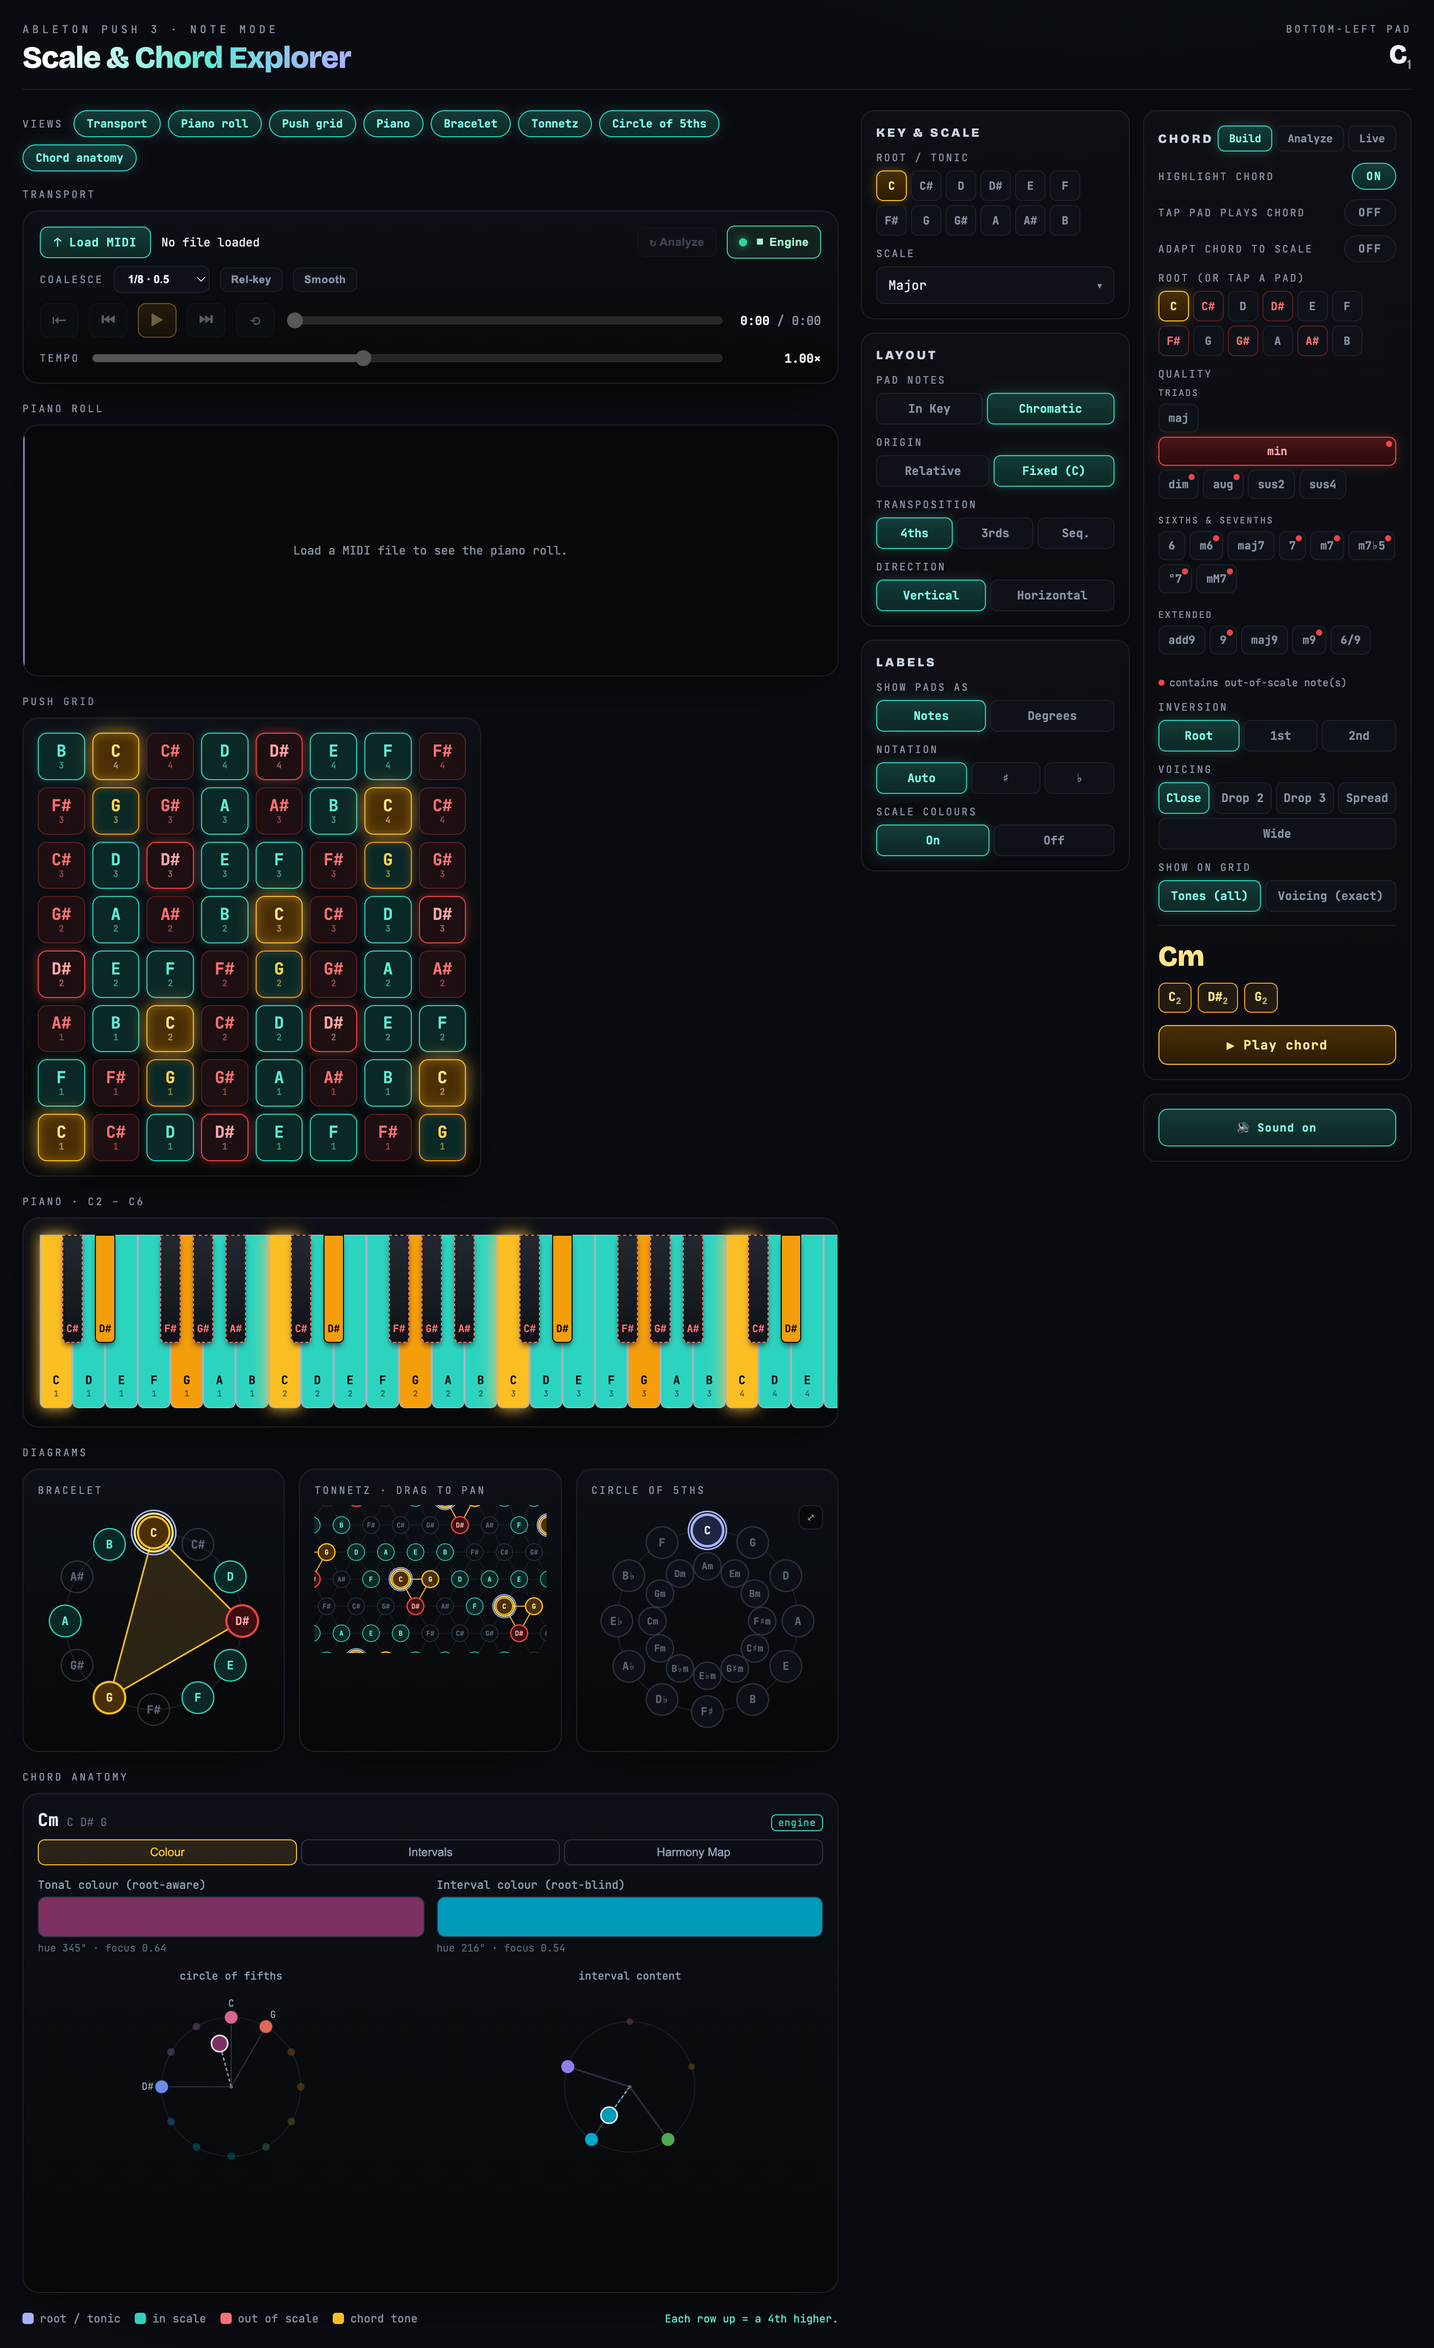
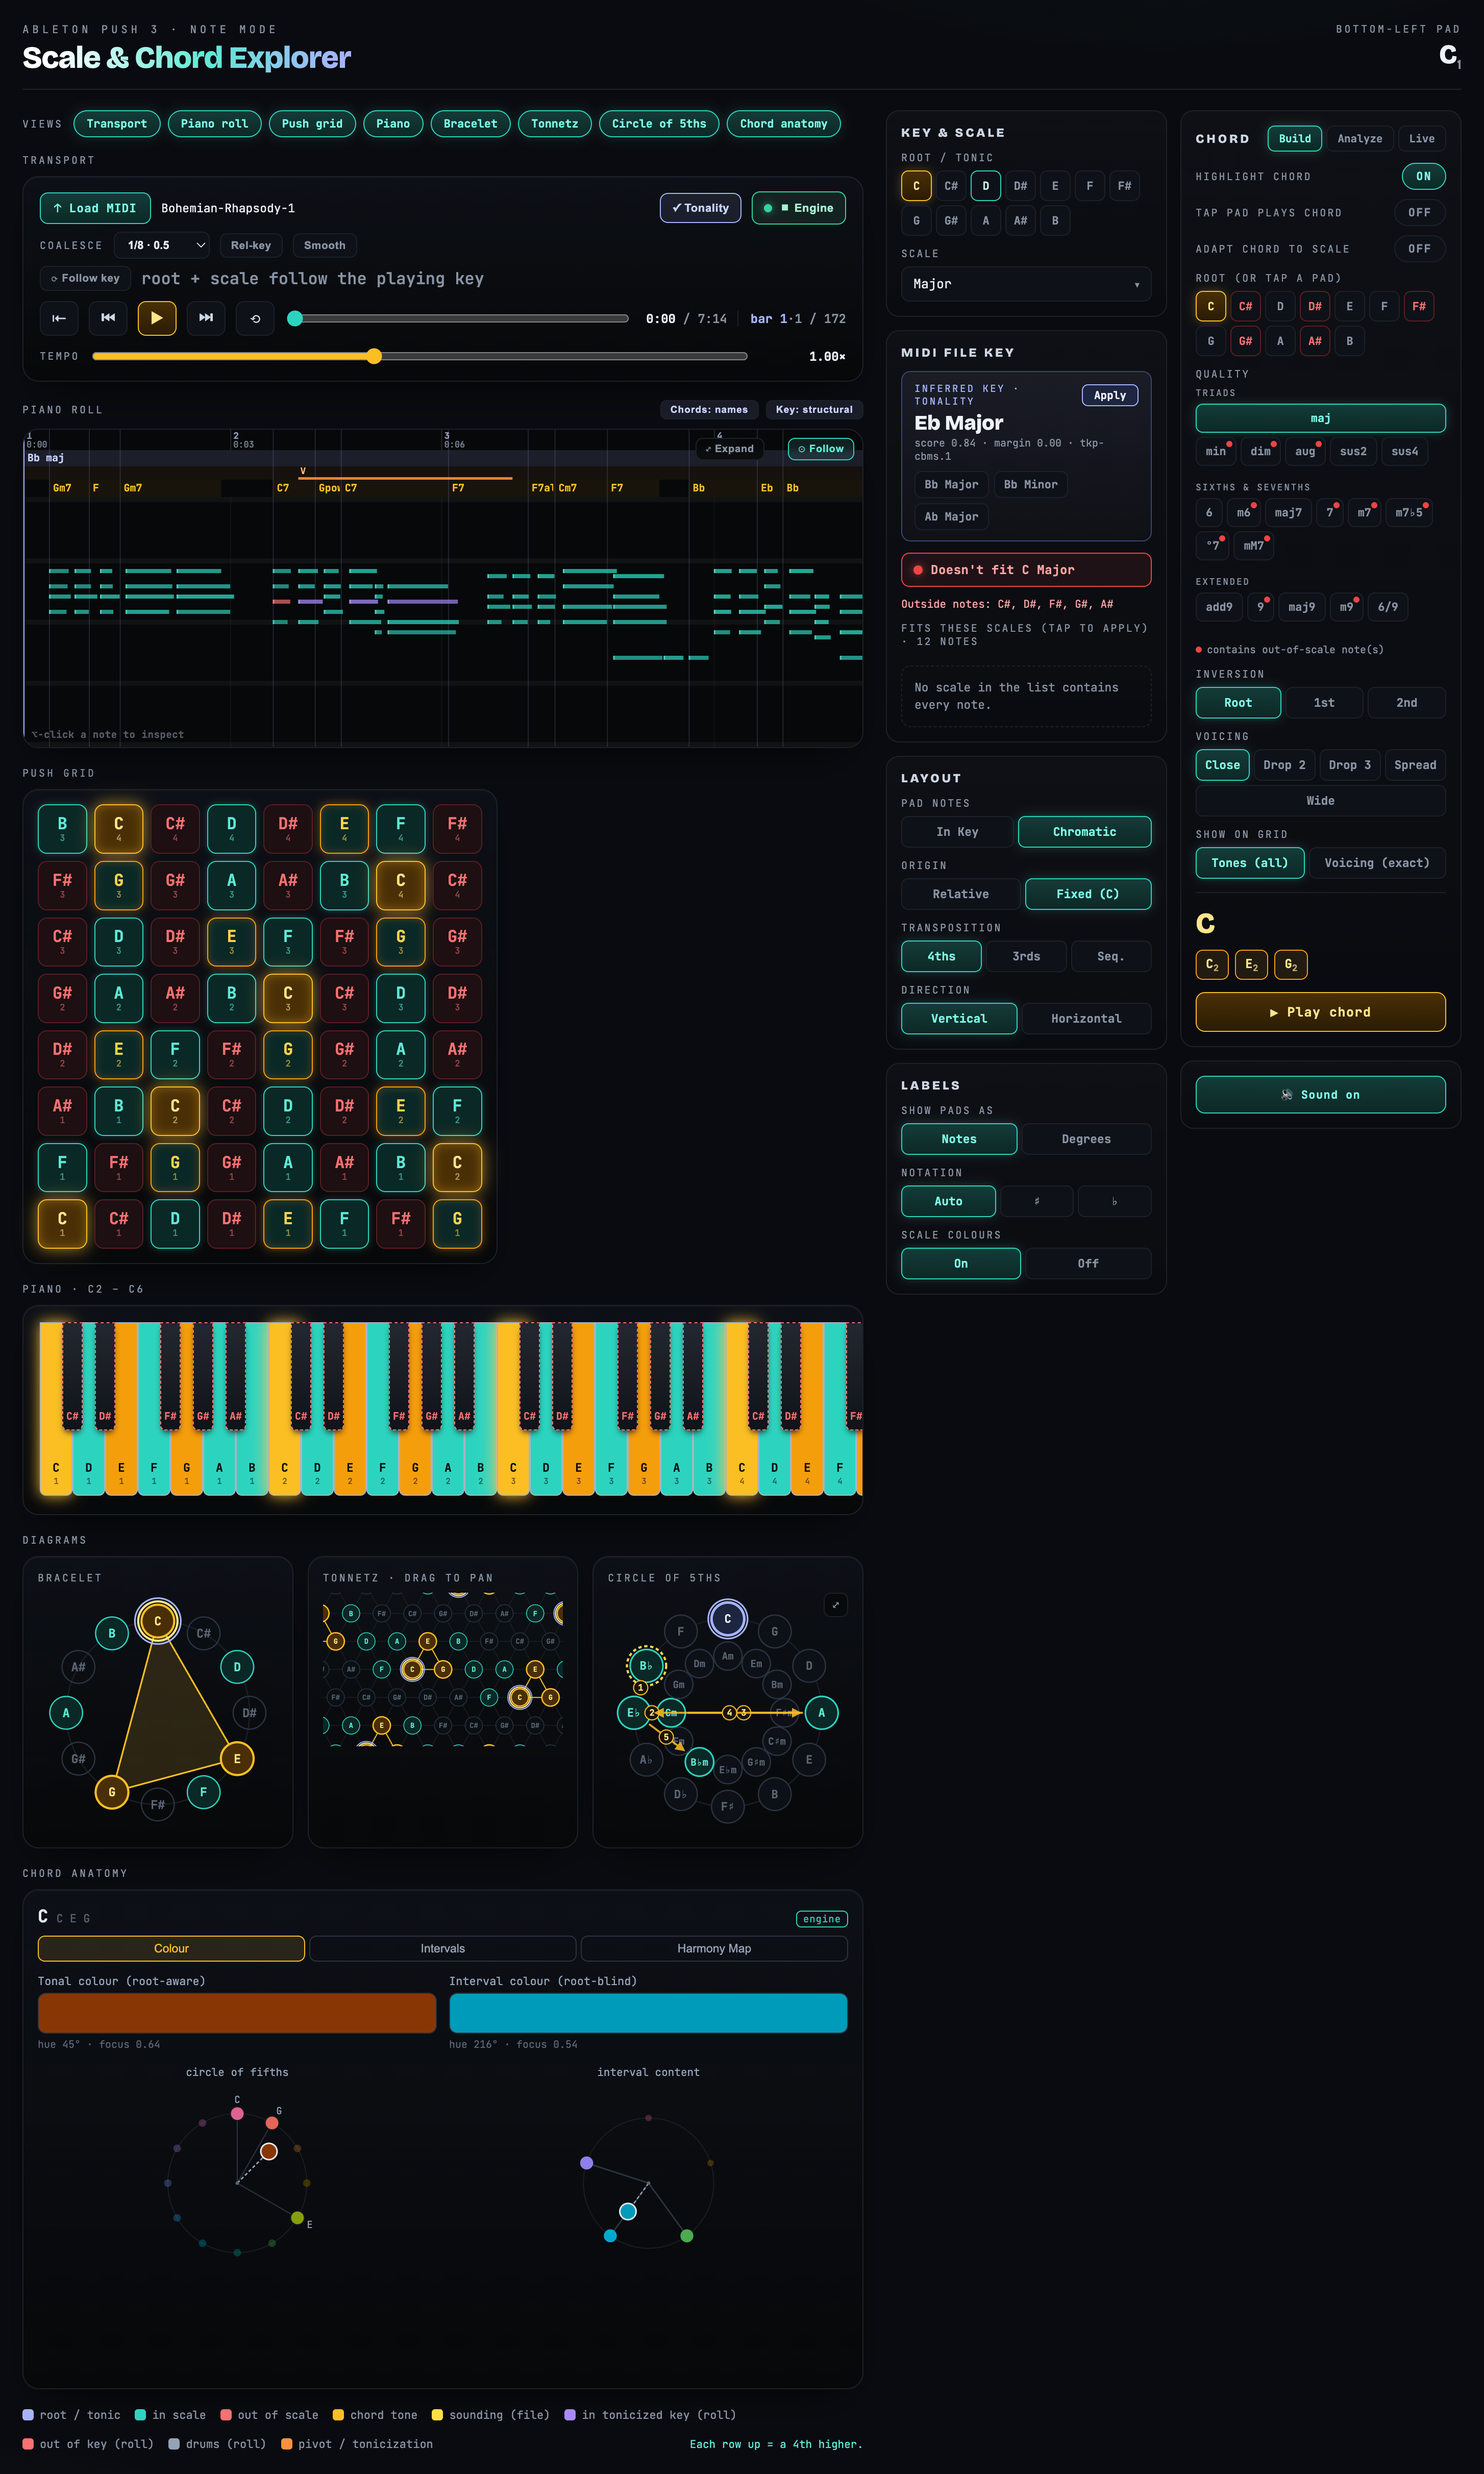
fix: piano marks out-of-scale chord tones red (not amber)
The piano's keyAccent returned plain amber for any chord tone / voicing / selected
note, with no out-of-scale check — so an out-of-key chord tone (e.g. Eb/Ab in C major)
showed amber, indistinguishable from in-key chord tones, while the grid/bracelet/tonnetz
correctly showed it red. Now keyAccent reds out-of-scale isTone/isVoice/isCRoot/isSel
accents (filled red — distinct from the red-dashed plain out-of-scale keys), matching
the grid. Played (isLit) notes stay yellow regardless, as on the grid.

Verified in-browser: Cm in C major now shows D# (Eb) red-filled, the other black keys
red-dashed, C/G amber — consistent with the grid and bracelet. typecheck + build pass.

diff --git a/src/App.tsx b/src/App.tsx
@@ -677,16 +677,20 @@ export default function App() {
   };
 
   const keyAccent = (p: Cell): KeyAccent | null => {
+    // An out-of-scale chord tone must still read as out-of-key (red), not be hidden
+    // behind the amber chord-tone colour — this is what the grid does, and the piano
+    // didn't, so e.g. an E♭/A♭ chord tone in C major showed amber instead of red.
+    const out = showScaleColors && !p.inScale;
     if (p.isLit) return { c: "#fde047", strong: true };
-    if (p.isSel) return { c: "#fbbf24", strong: true };
-    if (p.isSelPc) return { c: "#d97706", dashed: true };
-    if (p.isVoice || p.isCRoot) return { c: "#fbbf24", strong: true, badge: p.voiceNum };
-    if (p.isTone) return { c: "#f59e0b" };
+    if (p.isSel) return { c: out ? "#ef4444" : "#fbbf24", strong: true };
+    if (p.isSelPc) return { c: out ? "#ef4444" : "#d97706", dashed: true };
+    if (p.isVoice || p.isCRoot) return { c: out ? "#ef4444" : "#fbbf24", strong: true, badge: p.voiceNum };
+    if (p.isTone) return { c: out ? "#ef4444" : "#f59e0b" };
     if (showScaleColors && p.isRoot) return { c: "#a5b4fc", strong: true };
     if (showScaleColors && p.inScale) return { c: "#2dd4bf" };
-    // Out-of-scale keys read red (outlined, not filled — distinct from the teal in-scale
-    // fill and the amber chord/played fills). Matches the grid + the legend.
-    if (showScaleColors && !p.inScale) return { c: "#f87171", dashed: true };
+    // Plain out-of-scale keys read red (outlined, not filled — distinct from the teal
+    // in-scale fill and the filled chord/played accents). Matches the grid + the legend.
+    if (out) return { c: "#f87171", dashed: true };
     return null;
   };
 
